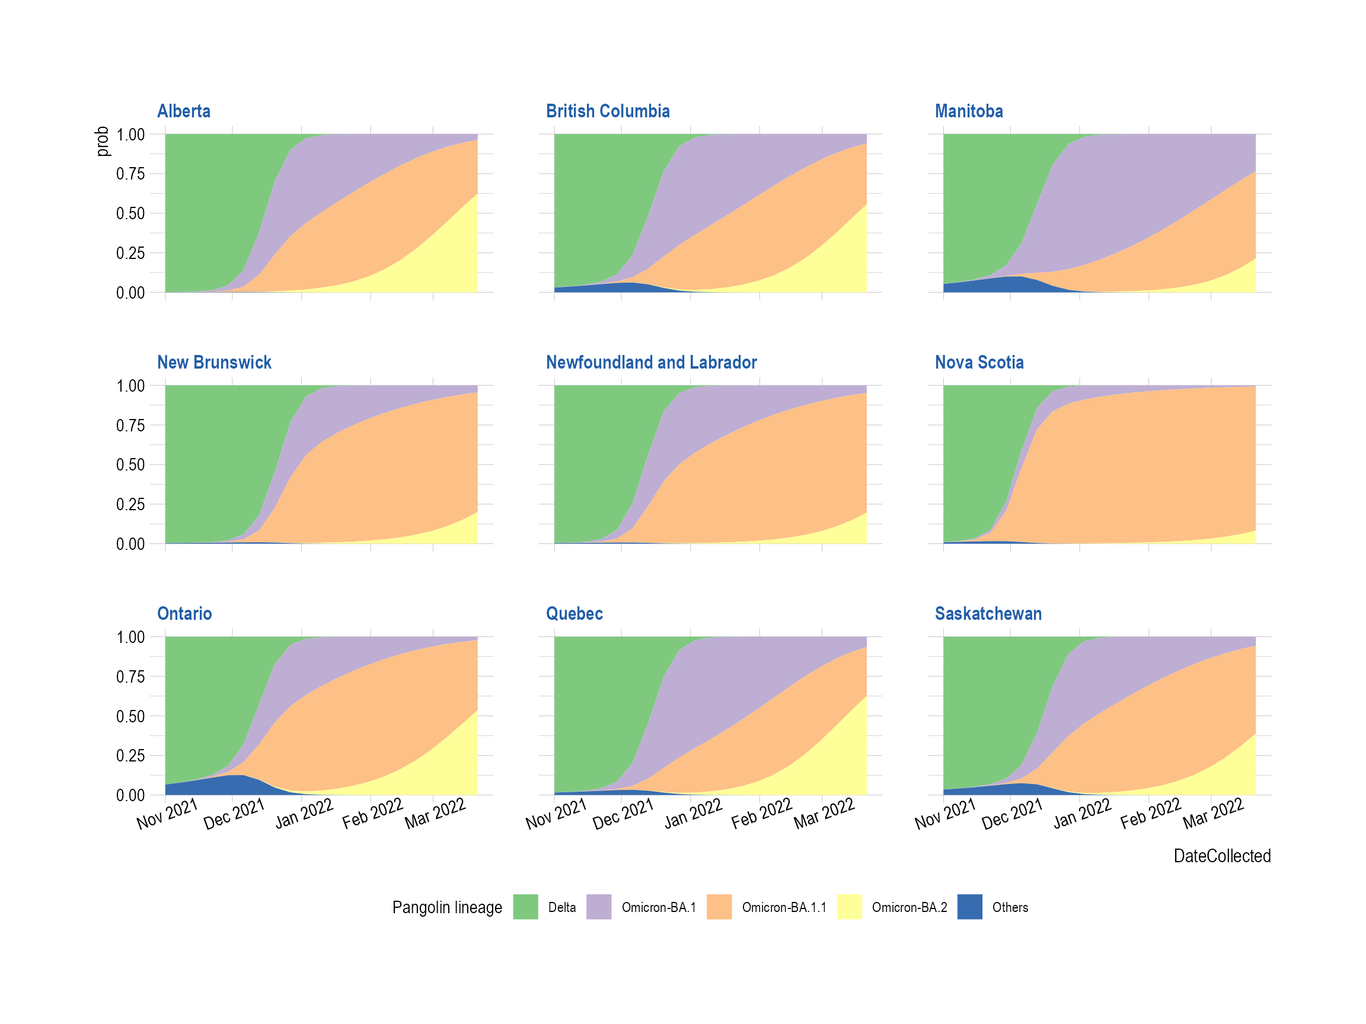
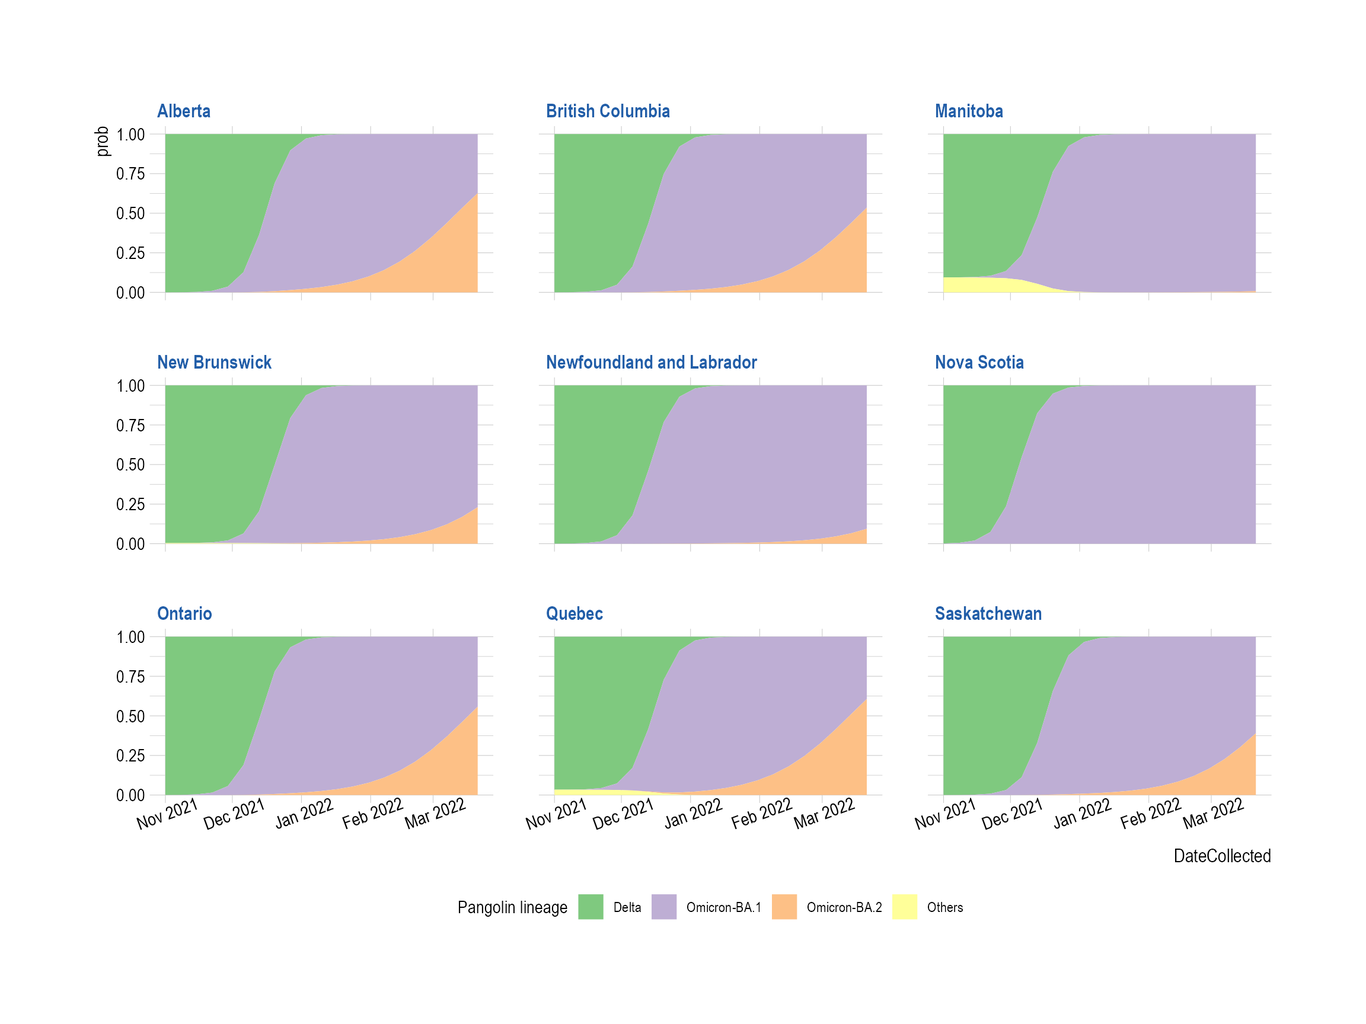
Update Omicron VOC handling

diff --git a/docs/articles/MultinomialModeling_India.html b/docs/articles/MultinomialModeling_India.html
@@ -101,7 +101,7 @@
   summarize <span class="op">=</span> <span class="cn">FALSE</span>
 <span class="op">)</span>
 
-<span class="va">gisaid_india_collapsed_sel</span> <span class="op">&lt;-</span> <span class="va">gisaid_india_collapsed</span> <span class="op"><a href="https://magrittr.tidyverse.org/reference/pipe.html" class="external-link">%&gt;%</a></span> <span class="fu"><a href="https://dplyr.tidyverse.org/reference/filter.html" class="external-link">filter</a></span><span class="op">(</span><span class="va">MonthYearCollected</span> <span class="op">&gt;=</span> <span class="st">"Nov 2021"</span><span class="op">)</span> 
+<span class="va">gisaid_india_collapsed_sel</span> <span class="op">&lt;-</span> <span class="va">gisaid_india_collapsed</span> <span class="op"><a href="https://magrittr.tidyverse.org/reference/pipe.html" class="external-link">%&gt;%</a></span> <span class="fu"><a href="https://dplyr.tidyverse.org/reference/filter.html" class="external-link">filter</a></span><span class="op">(</span><span class="va">MonthYearCollected</span> <span class="op">&gt;=</span> <span class="st">"Nov 2021"</span><span class="op">)</span>
 <span class="va">vocs_to_keep</span> <span class="op">&lt;-</span> <span class="fu"><a href="https://rdrr.io/r/base/table.html" class="external-link">table</a></span><span class="op">(</span><span class="va">gisaid_india_collapsed_sel</span><span class="op">$</span><span class="va">lineage_collapsed</span><span class="op">)</span>
 <span class="va">vocs_to_keep</span> <span class="op">&lt;-</span> <span class="va">vocs_to_keep</span><span class="op">[</span><span class="va">vocs_to_keep</span> <span class="op">&gt;</span> <span class="fl">100</span><span class="op">]</span>
 
@@ -120,47 +120,44 @@
 <span class="co">## <span style="color: #BCBCBC;">6</span> Andaman &amp; Nicobar                <span style="text-decoration: underline;">18</span>984 Omicron-BA.1          2</span></code></pre>
 <div class="sourceCode" id="cb4"><pre class="downlit sourceCode r">
 <code class="sourceCode R"><span class="va">fit_india_multi_predsbystate</span> <span class="op">&lt;-</span> <span class="fu">FitMultinomStatewiseDaily</span><span class="op">(</span><span class="va">gisaid_india_shared_dateweek</span><span class="op">)</span></code></pre></div>
-<pre><code><span class="co">## # weights:  190 (148 variable)</span>
-<span class="co">## initial  value 95328.616991 </span>
-<span class="co">## iter  10 value 70168.508300</span>
-<span class="co">## iter  20 value 69026.742164</span>
-<span class="co">## iter  30 value 67707.196923</span>
-<span class="co">## iter  40 value 66025.490953</span>
-<span class="co">## iter  50 value 64860.374532</span>
-<span class="co">## iter  60 value 62974.153509</span>
-<span class="co">## iter  70 value 58485.930603</span>
-<span class="co">## iter  80 value 53384.745881</span>
-<span class="co">## iter  90 value 51364.908217</span>
-<span class="co">## iter 100 value 50619.502254</span>
-<span class="co">## iter 110 value 50041.643370</span>
-<span class="co">## iter 120 value 48876.971541</span>
-<span class="co">## iter 130 value 47505.903235</span>
-<span class="co">## iter 140 value 45567.128644</span>
-<span class="co">## iter 150 value 44586.250892</span>
-<span class="co">## iter 160 value 44336.738874</span>
-<span class="co">## iter 170 value 44241.517732</span>
-<span class="co">## iter 180 value 44091.252436</span>
-<span class="co">## iter 190 value 44084.307211</span>
-<span class="co">## iter 200 value 44084.232665</span>
-<span class="co">## iter 210 value 44084.147258</span>
-<span class="co">## final  value 44084.139378 </span>
+<pre><code><span class="co">## # weights:  152 (111 variable)</span>
+<span class="co">## initial  value 82111.601303 </span>
+<span class="co">## iter  10 value 64150.912064</span>
+<span class="co">## iter  20 value 62639.678672</span>
+<span class="co">## iter  30 value 61211.097643</span>
+<span class="co">## iter  40 value 60061.457270</span>
+<span class="co">## iter  50 value 58247.714949</span>
+<span class="co">## iter  60 value 54144.268962</span>
+<span class="co">## iter  70 value 49209.958748</span>
+<span class="co">## iter  80 value 46462.544702</span>
+<span class="co">## iter  90 value 44649.653482</span>
+<span class="co">## iter 100 value 43275.356893</span>
+<span class="co">## iter 110 value 40959.192442</span>
+<span class="co">## iter 120 value 39052.423747</span>
+<span class="co">## iter 130 value 38505.957307</span>
+<span class="co">## iter 140 value 38316.970938</span>
+<span class="co">## iter 150 value 38198.678679</span>
+<span class="co">## iter 160 value 38111.806225</span>
+<span class="co">## iter 170 value 38111.333713</span>
+<span class="co">## iter 180 value 38111.196498</span>
+<span class="co">## final  value 38111.181895 </span>
 <span class="co">## converged</span></code></pre>
 <div class="sourceCode" id="cb6"><pre class="downlit sourceCode r">
 <code class="sourceCode R"><span class="fu"><a href="https://rdrr.io/r/utils/head.html" class="external-link">head</a></span><span class="op">(</span><span class="va">fit_india_multi_predsbystate</span><span class="op">)</span></code></pre></div>
 <pre><code><span class="co">##   lineage_collapsed DateCollectedNumeric             State         prob</span>
-<span class="co">## 1             Delta                18932 Andaman &amp; Nicobar 9.951212e-01</span>
-<span class="co">## 2      Omicron-BA.1                18932 Andaman &amp; Nicobar 3.197175e-03</span>
-<span class="co">## 3    Omicron-BA.1.1                18932 Andaman &amp; Nicobar 1.588683e-03</span>
-<span class="co">## 4      Omicron-BA.2                18932 Andaman &amp; Nicobar 9.292660e-05</span>
-<span class="co">## 5            Others                18932 Andaman &amp; Nicobar 4.957323e-12</span>
-<span class="co">## 6             Delta                18939 Andaman &amp; Nicobar 9.904356e-01</span>
+<span class="co">## 1             Delta                18932 Andaman &amp; Nicobar 9.957635e-01</span>
+<span class="co">## 2      Omicron-BA.1                18932 Andaman &amp; Nicobar 4.160660e-03</span>
+<span class="co">## 3      Omicron-BA.2                18932 Andaman &amp; Nicobar 7.513713e-05</span>
+<span class="co">## 4            Others                18932 Andaman &amp; Nicobar 7.018545e-07</span>
+<span class="co">## 5             Delta                18939 Andaman &amp; Nicobar 9.915148e-01</span>
+<span class="co">## 6      Omicron-BA.1                18939 Andaman &amp; Nicobar 8.220825e-03</span>
 <span class="co">##             SE df    asymp.LCL    asymp.UCL DateCollected</span>
-<span class="co">## 1 8.330213e-05 NA 9.949579e-01 9.952845e-01    2021-11-01</span>
-<span class="co">## 2 6.128850e-05 NA 3.077052e-03 3.317298e-03    2021-11-01</span>
-<span class="co">## 3 3.581963e-05 NA 1.518478e-03 1.658888e-03    2021-11-01</span>
-<span class="co">## 4 1.559859e-06 NA 8.986933e-05 9.598387e-05    2021-11-01</span>
-<span class="co">## 5 9.605002e-14 NA 4.769068e-12 5.145577e-12    2021-11-01</span>
-<span class="co">## 6 1.616407e-04 NA 9.901188e-01 9.907524e-01    2021-11-08</span></code></pre>
+<span class="co">## 1 7.252181e-05 NA 9.956214e-01 9.959056e-01    2021-11-01</span>
+<span class="co">## 2 7.170902e-05 NA 4.020113e-03 4.301207e-03    2021-11-01</span>
+<span class="co">## 3 1.267738e-06 NA 7.265241e-05 7.762186e-05    2021-11-01</span>
+<span class="co">## 4 1.418181e-08 NA 6.740586e-07 7.296503e-07    2021-11-01</span>
+<span class="co">## 5 1.439784e-04 NA 9.912326e-01 9.917970e-01    2021-11-08</span>
+<span class="co">## 6 1.411439e-04 NA 7.944188e-03 8.497462e-03    2021-11-08</span></code></pre>
 <div class="section level2">
 <h2 id="plot-smooth-muller-plots">Plot Smooth Muller Plots<a class="anchor" aria-label="anchor" href="#plot-smooth-muller-plots"></a>
 </h2>

diff --git a/docs/articles/MultinomialModeling_USA.html b/docs/articles/MultinomialModeling_USA.html
@@ -120,55 +120,56 @@
 <span class="co">## <span style="color: #BCBCBC;">6</span> Alabama                <span style="text-decoration: underline;">18</span>935 Others                1</span></code></pre>
 <div class="sourceCode" id="cb4"><pre class="downlit sourceCode r">
 <code class="sourceCode R"><span class="va">fit_usa_multi_predsbystate</span> <span class="op">&lt;-</span> <span class="fu">FitMultinomStatewiseDaily</span><span class="op">(</span><span class="va">gisaid_usa_shared_dateweek</span><span class="op">)</span></code></pre></div>
-<pre><code><span class="co">## # weights:  260 (204 variable)</span>
-<span class="co">## initial  value 1910896.899499 </span>
-<span class="co">## iter  10 value 1436055.332546</span>
-<span class="co">## iter  20 value 1428878.435224</span>
-<span class="co">## iter  30 value 1393793.504751</span>
-<span class="co">## iter  40 value 1278207.227827</span>
-<span class="co">## iter  50 value 1183644.742939</span>
-<span class="co">## iter  60 value 1153003.877707</span>
-<span class="co">## iter  70 value 1126855.173678</span>
-<span class="co">## iter  80 value 1061037.064938</span>
-<span class="co">## iter  90 value 984448.764062</span>
-<span class="co">## iter 100 value 959587.708672</span>
-<span class="co">## iter 110 value 942575.035346</span>
-<span class="co">## iter 120 value 906053.214600</span>
-<span class="co">## iter 130 value 897082.877686</span>
-<span class="co">## iter 140 value 882587.583990</span>
-<span class="co">## iter 150 value 868871.161039</span>
-<span class="co">## iter 160 value 857259.814091</span>
-<span class="co">## iter 170 value 839873.811512</span>
-<span class="co">## iter 180 value 824917.159472</span>
-<span class="co">## iter 190 value 803480.300972</span>
-<span class="co">## iter 200 value 788950.138842</span>
-<span class="co">## iter 210 value 761627.859095</span>
-<span class="co">## iter 220 value 734760.870429</span>
-<span class="co">## iter 230 value 724051.435750</span>
-<span class="co">## iter 240 value 720362.521169</span>
-<span class="co">## iter 250 value 718217.411697</span>
-<span class="co">## iter 260 value 717624.369644</span>
-<span class="co">## iter 270 value 717495.424384</span>
-<span class="co">## iter 280 value 717463.392895</span>
-<span class="co">## iter 290 value 717461.853150</span>
-<span class="co">## final  value 717461.663835 </span>
+<pre><code><span class="co">## # weights:  208 (153 variable)</span>
+<span class="co">## initial  value 1645956.999018 </span>
+<span class="co">## iter  10 value 898148.852584</span>
+<span class="co">## iter  20 value 887162.800140</span>
+<span class="co">## iter  30 value 743431.540208</span>
+<span class="co">## iter  40 value 679778.894247</span>
+<span class="co">## iter  50 value 655496.925840</span>
+<span class="co">## iter  60 value 585270.119715</span>
+<span class="co">## iter  70 value 542408.200742</span>
+<span class="co">## iter  80 value 500435.603800</span>
+<span class="co">## iter  90 value 477352.731822</span>
+<span class="co">## iter 100 value 455988.109671</span>
+<span class="co">## iter 110 value 435262.996021</span>
+<span class="co">## iter 120 value 415752.600467</span>
+<span class="co">## iter 130 value 399266.612298</span>
+<span class="co">## iter 140 value 374075.101389</span>
+<span class="co">## iter 150 value 353088.577738</span>
+<span class="co">## iter 160 value 324769.815968</span>
+<span class="co">## iter 170 value 294493.181721</span>
+<span class="co">## iter 180 value 286831.021889</span>
+<span class="co">## iter 190 value 283915.092854</span>
+<span class="co">## iter 200 value 282438.647238</span>
+<span class="co">## iter 210 value 282090.322165</span>
+<span class="co">## iter 220 value 281915.834934</span>
+<span class="co">## iter 230 value 281779.033841</span>
+<span class="co">## iter 240 value 281716.271740</span>
+<span class="co">## iter 250 value 281671.841530</span>
+<span class="co">## iter 260 value 281656.350666</span>
+<span class="co">## iter 270 value 281654.222134</span>
+<span class="co">## iter 280 value 281653.950036</span>
+<span class="co">## iter 280 value 281653.947454</span>
+<span class="co">## iter 280 value 281653.947344</span>
+<span class="co">## final  value 281653.947344 </span>
 <span class="co">## converged</span></code></pre>
 <div class="sourceCode" id="cb6"><pre class="downlit sourceCode r">
 <code class="sourceCode R"><span class="fu"><a href="https://rdrr.io/r/utils/head.html" class="external-link">head</a></span><span class="op">(</span><span class="va">fit_usa_multi_predsbystate</span><span class="op">)</span></code></pre></div>
 <pre><code><span class="co">##   lineage_collapsed DateCollectedNumeric   State         prob           SE df</span>
-<span class="co">## 1             Delta                18932 Alabama 9.981696e-01 1.506611e-05 NA</span>
-<span class="co">## 2      Omicron-BA.1                18932 Alabama 1.250959e-04 5.508377e-07 NA</span>
-<span class="co">## 3    Omicron-BA.1.1                18932 Alabama 3.290137e-05 1.498065e-07 NA</span>
-<span class="co">## 4      Omicron-BA.2                18932 Alabama 7.866264e-11 7.366481e-13 NA</span>
-<span class="co">## 5            Others                18932 Alabama 1.672369e-03 1.489585e-05 NA</span>
-<span class="co">## 6             Delta                18939 Alabama 9.966063e-01 2.571556e-05 NA</span>
+<span class="co">## 1             Delta                18932 Alabama 9.993124e-01 5.565615e-06 NA</span>
+<span class="co">## 2      Omicron-BA.1                18932 Alabama 1.328092e-04 5.724576e-07 NA</span>
+<span class="co">## 3      Omicron-BA.2                18932 Alabama 1.042601e-10 9.732116e-13 NA</span>
+<span class="co">## 4            Others                18932 Alabama 5.548185e-04 5.394268e-06 NA</span>
+<span class="co">## 5             Delta                18939 Alabama 9.984420e-01 1.091959e-05 NA</span>
+<span class="co">## 6      Omicron-BA.1                18939 Alabama 5.134192e-04 2.212392e-06 NA</span>
 <span class="co">##      asymp.LCL    asymp.UCL DateCollected</span>
-<span class="co">## 1 9.981401e-01 9.981992e-01    2021-11-01</span>
-<span class="co">## 2 1.240163e-04 1.261756e-04    2021-11-01</span>
-<span class="co">## 3 3.260775e-05 3.319499e-05    2021-11-01</span>
-<span class="co">## 4 7.721883e-11 8.010644e-11    2021-11-01</span>
-<span class="co">## 5 1.643174e-03 1.701564e-03    2021-11-01</span>
-<span class="co">## 6 9.965559e-01 9.966567e-01    2021-11-08</span></code></pre>
+<span class="co">## 1 9.993015e-01 9.993233e-01    2021-11-01</span>
+<span class="co">## 2 1.316872e-04 1.339312e-04    2021-11-01</span>
+<span class="co">## 3 1.023527e-10 1.061676e-10    2021-11-01</span>
+<span class="co">## 4 5.442459e-04 5.653910e-04    2021-11-01</span>
+<span class="co">## 5 9.984206e-01 9.984634e-01    2021-11-08</span>
+<span class="co">## 6 5.090830e-04 5.177554e-04    2021-11-08</span></code></pre>
 <div class="section level2">
 <h2 id="plot-smooth-muller-plots">Plot Smooth Muller Plots<a class="anchor" aria-label="anchor" href="#plot-smooth-muller-plots"></a>
 </h2>

diff --git a/docs/articles/VariantAnimation.html b/docs/articles/VariantAnimation.html
@@ -101,11 +101,18 @@
 <span class="va">gisaid_india</span> <span class="op">&lt;-</span> <span class="fu"><a href="../reference/FilterGISAIDIndia.html">FilterGISAIDIndia</a></span><span class="op">(</span>gisaid_metadata_all <span class="op">=</span> <span class="va">gisaid_metadata</span><span class="op">)</span>
 
 <span class="va">vocs</span> <span class="op">&lt;-</span> <span class="fu"><a href="../reference/GetVOCs.html">GetVOCs</a></span><span class="op">(</span><span class="op">)</span>
+<span class="va">omicron</span> <span class="op">&lt;-</span> <span class="va">vocs</span><span class="op">[[</span><span class="st">"omicron"</span><span class="op">]</span><span class="op">]</span>
 <span class="va">vocs</span><span class="op">[[</span><span class="st">"omicron"</span><span class="op">]</span><span class="op">]</span> <span class="op">&lt;-</span> <span class="cn">NULL</span>
 <span class="va">custom_voc_mapping</span> <span class="op">&lt;-</span> <span class="fu"><a href="https://rdrr.io/r/base/list.html" class="external-link">list</a></span><span class="op">(</span>
   `BA.1.1` <span class="op">=</span> <span class="st">"Omicron-BA.1.1"</span>, `BA.1` <span class="op">=</span> <span class="st">"Omicron-BA.1"</span>,
   `BA.2` <span class="op">=</span> <span class="st">"Omicron-BA.2"</span>
 <span class="op">)</span>
+<span class="kw">for</span> <span class="op">(</span><span class="va">omi</span> <span class="kw">in</span> <span class="va">omicron</span><span class="op">)</span> <span class="op">{</span>
+  <span class="kw">if</span> <span class="op">(</span><span class="fu"><a href="https://rdrr.io/r/base/grep.html" class="external-link">grepl</a></span><span class="op">(</span>pattern <span class="op">=</span> <span class="st">"^BA.1"</span>, x <span class="op">=</span> <span class="va">omi</span><span class="op">)</span><span class="op">)</span> <span class="op">{</span>
+    <span class="va">custom_voc_mapping</span><span class="op">[[</span><span class="va">omi</span><span class="op">]</span><span class="op">]</span> <span class="op">&lt;-</span> <span class="st">"Omicron-BA.1"</span>
+  <span class="op">}</span>
+<span class="op">}</span>
+
 <span class="va">gisaid_india</span> <span class="op">&lt;-</span> <span class="va">gisaid_india</span> <span class="op"><a href="https://magrittr.tidyverse.org/reference/pipe.html" class="external-link">%&gt;%</a></span> <span class="fu"><a href="https://dplyr.tidyverse.org/reference/filter.html" class="external-link">filter</a></span><span class="op">(</span><span class="va">pangolin_lineage</span> <span class="op">!=</span> <span class="st">"None"</span><span class="op">)</span>
 
 <span class="va">gisaid_india</span> <span class="op">&lt;-</span> <span class="fu"><a href="../reference/CollapseLineageToVOCs.html">CollapseLineageToVOCs</a></span><span class="op">(</span>
@@ -142,16 +149,15 @@
 <span class="va">gisaid_india_weekwise</span> <span class="op">&lt;-</span> <span class="va">gisaid_india_weekwise</span> <span class="op"><a href="https://magrittr.tidyverse.org/reference/pipe.html" class="external-link">%&gt;%</a></span> <span class="fu"><a href="https://dplyr.tidyverse.org/reference/filter.html" class="external-link">filter</a></span><span class="op">(</span><span class="va">lineage_collapsed</span> <span class="op"><a href="https://rdrr.io/r/base/match.html" class="external-link">%in%</a></span> <span class="va">voc_to_keep</span><span class="op">)</span>
 
 <span class="va">india_cases_pred_prob_sel_long</span> <span class="op">&lt;-</span> <span class="fu">FitMultinomWeekly</span><span class="op">(</span><span class="va">gisaid_india_weekwise</span>, <span class="va">confirmed_subset_dateweekwise_long_india</span><span class="op">)</span></code></pre></div>
-<pre><code><span class="co">## # weights:  28 (18 variable)</span>
-<span class="co">## initial  value 288872.307537 </span>
-<span class="co">## iter  10 value 130385.611350</span>
-<span class="co">## iter  20 value 86914.646475</span>
-<span class="co">## iter  30 value 77355.739200</span>
-<span class="co">## iter  40 value 77278.418034</span>
-<span class="co">## iter  50 value 77190.988630</span>
-<span class="co">## iter  60 value 77076.009106</span>
-<span class="co">## iter  70 value 77070.404621</span>
-<span class="co">## final  value 77069.832066 </span>
+<pre><code><span class="co">## # weights:  24 (15 variable)</span>
+<span class="co">## initial  value 265988.484966 </span>
+<span class="co">## iter  10 value 119110.724632</span>
+<span class="co">## iter  20 value 69537.774439</span>
+<span class="co">## iter  30 value 67302.852095</span>
+<span class="co">## iter  40 value 67196.024708</span>
+<span class="co">## iter  50 value 66934.264180</span>
+<span class="co">## iter  60 value 66932.134615</span>
+<span class="co">## final  value 66930.998492 </span>
 <span class="co">## converged</span></code></pre>
 <div class="sourceCode" id="cb6"><pre class="downlit sourceCode r">
 <code class="sourceCode R"><span class="va">the_anim</span> <span class="op">&lt;-</span> <span class="fu">PlotVariantPrevalenceAnimated</span><span class="op">(</span><span class="va">india_cases_pred_prob_sel_long</span>, title <span class="op">=</span> <span class="st">"Estimated cases (weekly average) in India by variant"</span><span class="op">)</span>

diff --git a/docs/articles/MultinomialModeling_Canada.html b/docs/articles/MultinomialModeling_Canada.html
@@ -120,42 +120,32 @@
 <span class="co">## <span style="color: #BCBCBC;">6</span> Alberta                <span style="text-decoration: underline;">18</span>937 Delta                54</span></code></pre>
 <div class="sourceCode" id="cb4"><pre class="downlit sourceCode r">
 <code class="sourceCode R"><span class="va">fit_canada_multi_predsbystate</span> <span class="op">&lt;-</span> <span class="fu">FitMultinomStatewiseDaily</span><span class="op">(</span><span class="va">gisaid_canada_shared_dateweek</span><span class="op">)</span></code></pre></div>
-<pre><code><span class="co">## # weights:  55 (40 variable)</span>
-<span class="co">## initial  value 149001.761933 </span>
-<span class="co">## iter  10 value 120986.054620</span>
-<span class="co">## iter  20 value 120147.097117</span>
-<span class="co">## iter  30 value 117712.561660</span>
-<span class="co">## iter  40 value 103066.964673</span>
-<span class="co">## iter  50 value 81186.593271</span>
-<span class="co">## iter  60 value 73336.897091</span>
-<span class="co">## iter  70 value 71864.438771</span>
-<span class="co">## iter  80 value 71629.958019</span>
-<span class="co">## iter  90 value 71606.697587</span>
-<span class="co">## iter 100 value 71595.889749</span>
-<span class="co">## iter 110 value 71547.581352</span>
-<span class="co">## iter 120 value 71457.303965</span>
-<span class="co">## iter 130 value 71424.699923</span>
-<span class="co">## iter 140 value 71165.659440</span>
-<span class="co">## iter 150 value 71117.512871</span>
-<span class="co">## iter 160 value 71112.135936</span>
-<span class="co">## final  value 71110.534555 </span>
+<pre><code><span class="co">## # weights:  44 (30 variable)</span>
+<span class="co">## initial  value 128343.131952 </span>
+<span class="co">## iter  10 value 77669.829717</span>
+<span class="co">## iter  20 value 74847.477712</span>
+<span class="co">## iter  30 value 60729.815162</span>
+<span class="co">## iter  40 value 47417.734933</span>
+<span class="co">## iter  50 value 31129.633928</span>
+<span class="co">## iter  60 value 30857.339589</span>
+<span class="co">## final  value 30825.348688 </span>
 <span class="co">## converged</span></code></pre>
 <div class="sourceCode" id="cb6"><pre class="downlit sourceCode r">
 <code class="sourceCode R"><span class="fu"><a href="https://rdrr.io/r/utils/head.html" class="external-link">head</a></span><span class="op">(</span><span class="va">fit_canada_multi_predsbystate</span><span class="op">)</span></code></pre></div>
 <pre><code><span class="co">##   lineage_collapsed DateCollectedNumeric   State         prob           SE df</span>
-<span class="co">## 1             Delta                18932 Alberta 9.986500e-01 2.670672e-05 NA</span>
-<span class="co">## 2      Omicron-BA.1                18932 Alberta 2.094815e-04 2.979305e-06 NA</span>
-<span class="co">## 3    Omicron-BA.1.1                18932 Alberta 2.233793e-05 3.397985e-07 NA</span>
-<span class="co">## 4      Omicron-BA.2                18932 Alberta 4.441550e-08 9.561336e-10 NA</span>
-<span class="co">## 5            Others                18932 Alberta 1.118145e-03 2.596103e-05 NA</span>
-<span class="co">## 6             Delta                18939 Alberta 9.978032e-01 3.537990e-05 NA</span>
+<span class="co">## 1             Delta                18932 Alberta 9.998378e-01 2.252370e-06 NA</span>
+<span class="co">## 2      Omicron-BA.1                18932 Alberta 1.621163e-04 2.250777e-06 NA</span>
+<span class="co">## 3      Omicron-BA.2                18932 Alberta 1.156764e-07 2.444041e-09 NA</span>
+<span class="co">## 4            Others                18932 Alberta 3.868919e-13 3.331689e-14 NA</span>
+<span class="co">## 5             Delta                18939 Alberta 9.993684e-01 8.768450e-06 NA</span>
+<span class="co">## 6      Omicron-BA.1                18939 Alberta 6.309682e-04 8.759307e-06 NA</span>
 <span class="co">##      asymp.LCL    asymp.UCL DateCollected</span>
-<span class="co">## 1 9.985976e-01 9.987023e-01    2021-11-01</span>
-<span class="co">## 2 2.036422e-04 2.153209e-04    2021-11-01</span>
-<span class="co">## 3 2.167194e-05 2.300392e-05    2021-11-01</span>
-<span class="co">## 4 4.254152e-08 4.628949e-08    2021-11-01</span>
-<span class="co">## 5 1.067262e-03 1.169027e-03    2021-11-01</span>
-<span class="co">## 6 9.977339e-01 9.978725e-01    2021-11-08</span></code></pre>
+<span class="co">## 1 9.998334e-01 9.998422e-01    2021-11-01</span>
+<span class="co">## 2 1.577049e-04 1.665278e-04    2021-11-01</span>
+<span class="co">## 3 1.108861e-07 1.204666e-07    2021-11-01</span>
+<span class="co">## 4 3.215920e-13 4.521918e-13    2021-11-01</span>
+<span class="co">## 5 9.993512e-01 9.993856e-01    2021-11-08</span>
+<span class="co">## 6 6.138003e-04 6.481361e-04    2021-11-08</span></code></pre>
 <div class="section level2">
 <h2 id="plot-smooth-muller-plots">Plot Smooth Muller Plots<a class="anchor" aria-label="anchor" href="#plot-smooth-muller-plots"></a>
 </h2>
